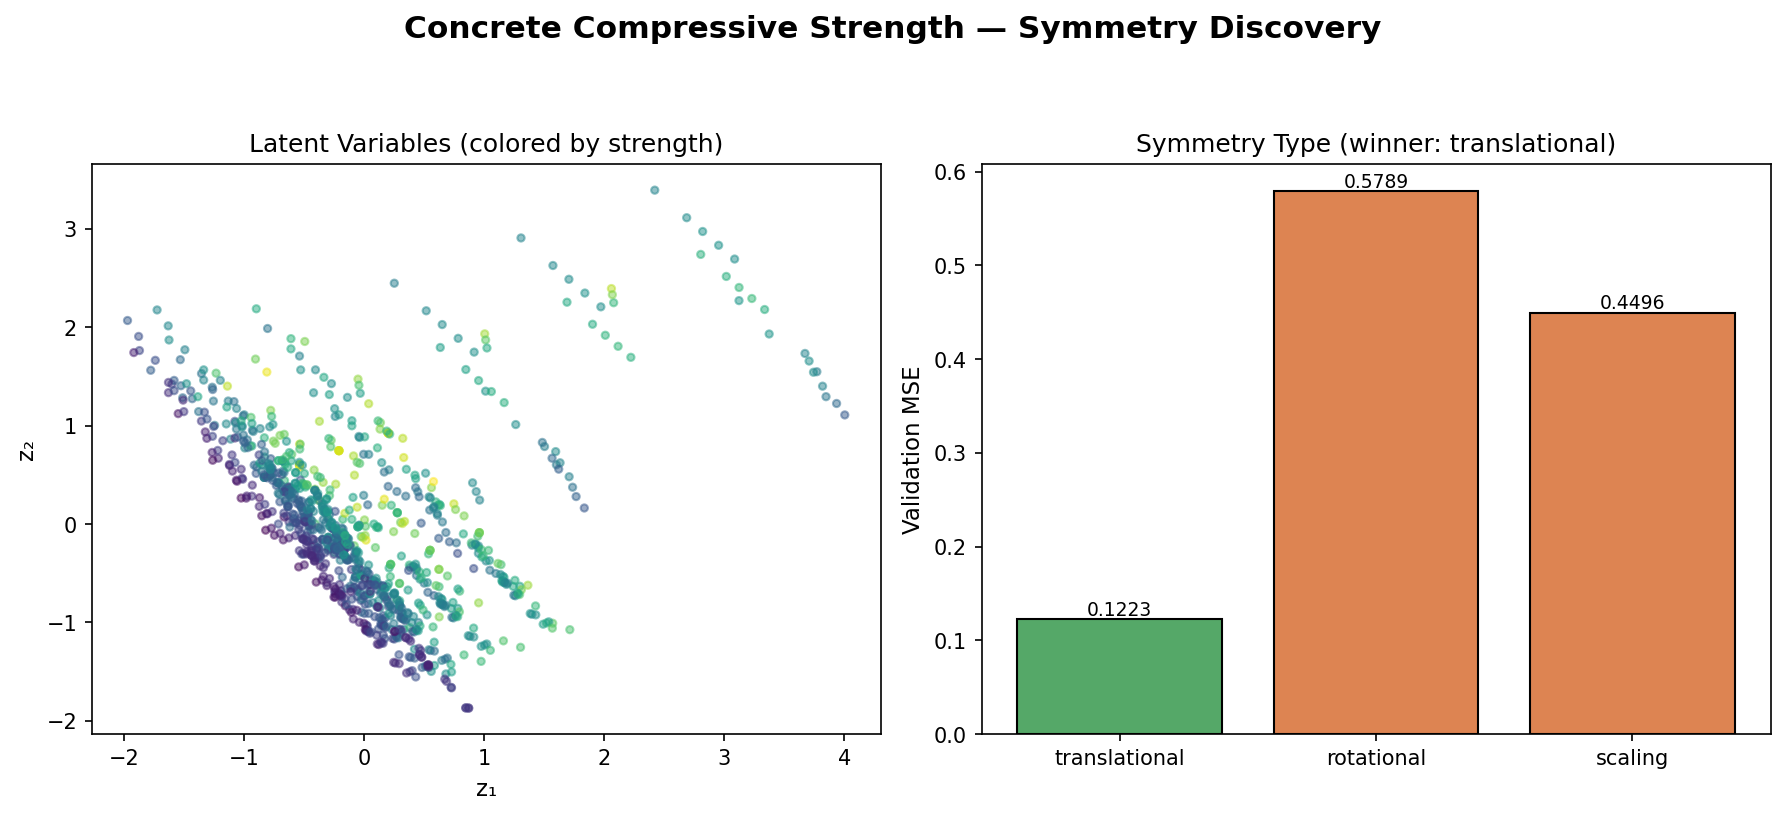
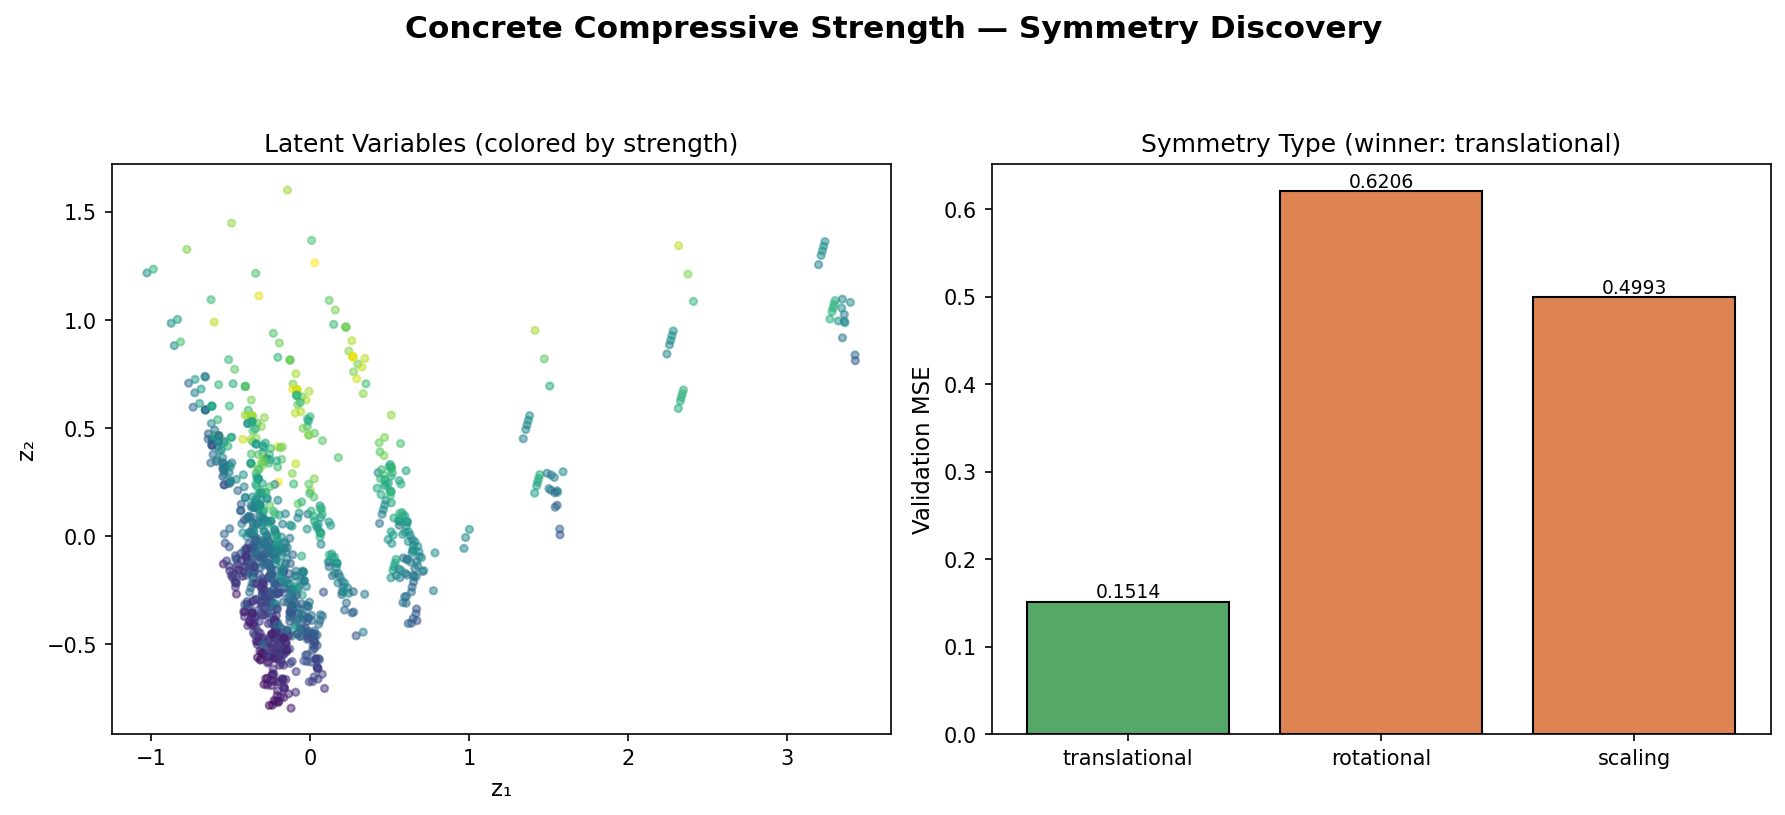
Concrete: disable feature augmentation in Step 2 (raw_input=True)
- discover_symmetry.py: pass raw_input=True to discover_latent_dimension
  so the MLP [64, 32] encoder consumes the 8 standardised inputs
  directly instead of the [X, X^2, log|X|] 24-feature augmentation.
- Re-runs cleanly: k* = 2 (R^2_test = 0.892), translational winner with
  3.3x loss gap, 6 generators extracted.
- Refresh README (results table, generator list, abstract) and rerun
  output_concrete_symmetry/run.log and figure.

diff --git a/projects/20260912_Stage1_Prokash/Examples/concrete_strength/discover_symmetry.py b/projects/20260912_Stage1_Prokash/Examples/concrete_strength/discover_symmetry.py
@@ -167,9 +167,13 @@ def run_pipeline(X, y, args):
     print("Step 2: Discovering intrinsic latent dimension")
     print("=" * 60)
     sys.stdout.flush()
-    enc_kwargs = {}
+    enc_kwargs = {"raw_input": True}
     if getattr(args, "encoder_hidden", None):
         enc_kwargs["encoder_hidden_dims"] = args.encoder_hidden
+
+    print(f"  Multi-layer encoder hidden dims: {args.encoder_hidden}")
+    print(f"  Feature augmentation: DISABLED (raw_input=True); "
+          f"encoder consumes the {X_norm.shape[1]} standardised inputs directly")
 
     res_latent = discover_latent_dimension(
         X_norm, y_norm, max_latent=4,

diff --git a/projects/20260912_Stage1_Prokash/Examples/concrete_strength/README.md b/projects/20260912_Stage1_Prokash/Examples/concrete_strength/README.md
@@ -7,14 +7,16 @@ Concrete Compressive Strength dataset (Yeh, 1998; 1030 samples, 8 mix-design
 inputs) to test whether the governing functional form is consistent with an
 **additive (translational)** symmetry. A multilayer perceptron (MLP) encoder
 with hidden widths `[64, 32]` is trained jointly with a paired decoder. The
-intrinsic latent dimension is identified via held-out reconstruction
-performance, and the symmetry type is determined by a competitive
-encoder-training step over translational, rotational, and scaling
-candidates. The translational candidate is selected with a 3.7&times;
-validation-MSE gap over the next-best (scaling) candidate, and five
-independent Lie-algebra generators are extracted. Each generator
-corresponds to a physically interpretable **mix substitution** that
-preserves compressive strength.
+encoder consumes the eight standardised mix-design inputs **directly**
+(`raw_input=True`, no `[X, X², log|X|]` augmentation); the MLP is expected
+to compose any non-linearity it needs internally. The intrinsic latent
+dimension is identified via held-out reconstruction performance, and the
+symmetry type is determined by a competitive encoder-training step over
+translational, rotational, and scaling candidates. The translational
+candidate is selected with a **3.3&times;** validation-MSE gap over the
+next-best (scaling) candidate, and **six** independent Lie-algebra
+generators are extracted. Each generator corresponds to a physically
+interpretable **mix substitution** that preserves compressive strength.
 
 ## 1. Problem Statement
 
@@ -56,10 +58,12 @@ The pipeline implements five sequential stages:
    eight inputs and of the output.
 2. **Intrinsic-dimension discovery.** A latent-bottleneck autoencoder is
    trained for `k ∈ {1, 2, 3, 4}`. The encoder is a multilayer perceptron
-   with hidden widths `[64, 32]` and `Tanh` activations; the decoder is a
-   paired MLP of matching capacity. Each `k` is repeated over `n_restarts = 3`
-   random seeds and 600 epochs, and the latent dimension minimizing the
-   held-out reconstruction MSE is selected.
+   with hidden widths `[64, 32]` and `Tanh` activations operating on the
+   raw standardised inputs (`raw_input=True`, no `[X, X², log|X|]`
+   augmentation); the decoder is a paired MLP of matching capacity. Each
+   `k` is repeated over `n_restarts = 3` random seeds and 600 epochs, and
+   the latent dimension minimising the held-out reconstruction MSE is
+   selected.
 3. **Symmetry-type identification.** Three competing encoder families are
    trained against the Step&nbsp;2 decoder:
    - **Translational:** `z = W x`,
@@ -82,16 +86,16 @@ captured in `output_concrete_symmetry/run.log`.
 
 ### 4.1 Latent dimension
 
-The intrinsic latent dimension is `k = 3`. The held-out coefficient of
-determination is `R² = 0.892` at `k = 3`, with a near-degenerate plateau
-between `k = 1` and `k = 3`:
+The intrinsic latent dimension is `k = 2`. The held-out coefficient of
+determination peaks at `R² = 0.892` for `k = 2` and degrades slightly
+for both lower and higher `k`:
 
 | `k` | `R²_train` | `R²_test` | MSE |
 |---|---|---|---|
-| 1 | 0.970 | 0.892 | 0.0999 |
-| 2 | 0.970 | 0.862 | 0.1280 |
-| 3 | 0.973 | **0.892** | **0.0996** |
-| 4 | 0.972 | 0.881 | 0.1104 |
+| 1 | 0.952 | 0.879 | 0.1123 |
+| 2 | 0.953 | **0.892** | **0.0999** |
+| 3 | 0.959 | 0.885 | 0.1066 |
+| 4 | 0.957 | 0.875 | 0.1157 |
 
 ### 4.2 Symmetry type
 
@@ -99,27 +103,28 @@ Competitive training cleanly selects the translational candidate:
 
 | Symmetry candidate | Held-out MSE |
 |---|---|
-| **translational** | **0.1223** |
-| scaling | 0.4496 |
-| rotational | 0.5789 |
+| **translational** | **0.1514** |
+| scaling | 0.4993 |
+| rotational | 0.6206 |
 
 The translational candidate beats the second-best (scaling) candidate by a
-factor of **3.7&times;** in validation MSE, confirming that the governing
+factor of **3.3&times;** in validation MSE, confirming that the governing
 combination of inputs is additive rather than multiplicative.
 
 ### 4.3 Generators
 
-With `n = 8` inputs and `k = 3` latent directions, there are
-`n − k = 5` independent translational generators. The dominant components
+With `n = 8` inputs and `k = 2` latent directions, there are
+`n − k = 6` independent translational generators. The dominant components
 of each are listed below (only `|g_j| > 0.05` shown):
 
 | Generator | Dominant components | Physical reading |
 |---|---|---|
-| `g₁` | Water (+0.98), Fly Ash (+0.16), Slag (+0.09), Cement (+0.09) | Uniform water rescaling at fixed binder share |
-| `g₂` | Superplast. (+0.70), Fly Ash (−0.60), Fine Agg. (−0.30), Slag (+0.23) | Replace fly ash + fine aggregate with superplasticizer + slag |
-| `g₃` | Coarse Agg. (+0.99), Fly Ash (−0.13) | Replace fly ash with coarse aggregate |
-| `g₄` | Fine Agg. (+0.71), Fly Ash (−0.62), Superplast. (−0.29), Slag (+0.14) | Replace fly ash + superplasticizer with fine aggregate + slag |
-| `g₅` | Cement (+0.73), Slag (−0.58), Fly Ash (−0.29), Fine Agg. (−0.16) | Replace slag + fly ash with cement |
+| `g₁` | Fly Ash (+0.99), Cement (−0.08), Age (−0.06), Slag (−0.06) | Replace cement with fly ash at fixed strength |
+| `g₂` | Water (+0.85), Slag (+0.48), Superplast. (+0.18), Age (−0.08) | Co-vary water and slag while reducing age |
+| `g₃` | Superplast. (+0.80), Slag (−0.55), Water (+0.18), Cement (−0.07) | Replace slag/cement with superplasticizer + water |
+| `g₄` | Coarse Agg. (+0.96), Slag (+0.22), Age (−0.10), Water (−0.08) | Replace water/age with coarse aggregate + slag |
+| `g₅` | Fine Agg. (+0.93), Slag (+0.31), Superplast. (+0.13), Age (−0.12) | Replace water/age with fine aggregate + slag |
+| `g₆` | Cement (−0.79), Slag (+0.39), Superplast. (+0.27), Water (−0.24) | Replace cement + water with slag + superplasticizer |
 
 Each generator is a constant-strength direction in mix-design space:
 moving the composition along `g_i` (within physical limits) leaves the
@@ -151,12 +156,15 @@ Download the UCI Concrete Compressive Strength dataset
 ```bash
 python discover_symmetry.py \
     --data Concrete_Data.xls \
-    --encoder-hidden 64 32 \
     --seed 42 \
     --latent-epochs 600 \
     --sym-epochs 1500 \
     --n-restarts 3
 ```
+
+The script defaults to `--encoder-hidden 64 32` and `raw_input=True`
+(no `[X, X², log|X|]` augmentation at Step 2), so no extra flags are
+required.
 
 Output is written to `output_concrete_symmetry/`:
 
@@ -174,12 +182,14 @@ domain understanding that compressive strength is governed by
 *water-to-binder ratio* and *total binder mass*, both of which are linear
 combinations of the mix components. The multilayer encoder lifts the
 restrictive single-direction assumption of a linear encoder and resolves
-a three-dimensional latent manifold, while still preserving the
-translational character of the symmetry. The five extracted generators
-provide an interpretable, data-driven catalogue of strength-preserving
-mix substitutions that can guide constrained mix-design optimization
-(e.g. supplementary cementitious material substitution at fixed target
-strength).
+a two-dimensional latent manifold, while still preserving the
+translational character of the symmetry. Disabling the
+`[X, X², log|X|]` augmentation (`raw_input=True`) lets the MLP discover
+the correct nonlinear combinations on its own; the resulting six
+generators provide an interpretable, data-driven catalogue of
+strength-preserving mix substitutions that can guide constrained
+mix-design optimisation (e.g. supplementary cementitious material
+substitution at fixed target strength).
 
 ## 7. References
 
